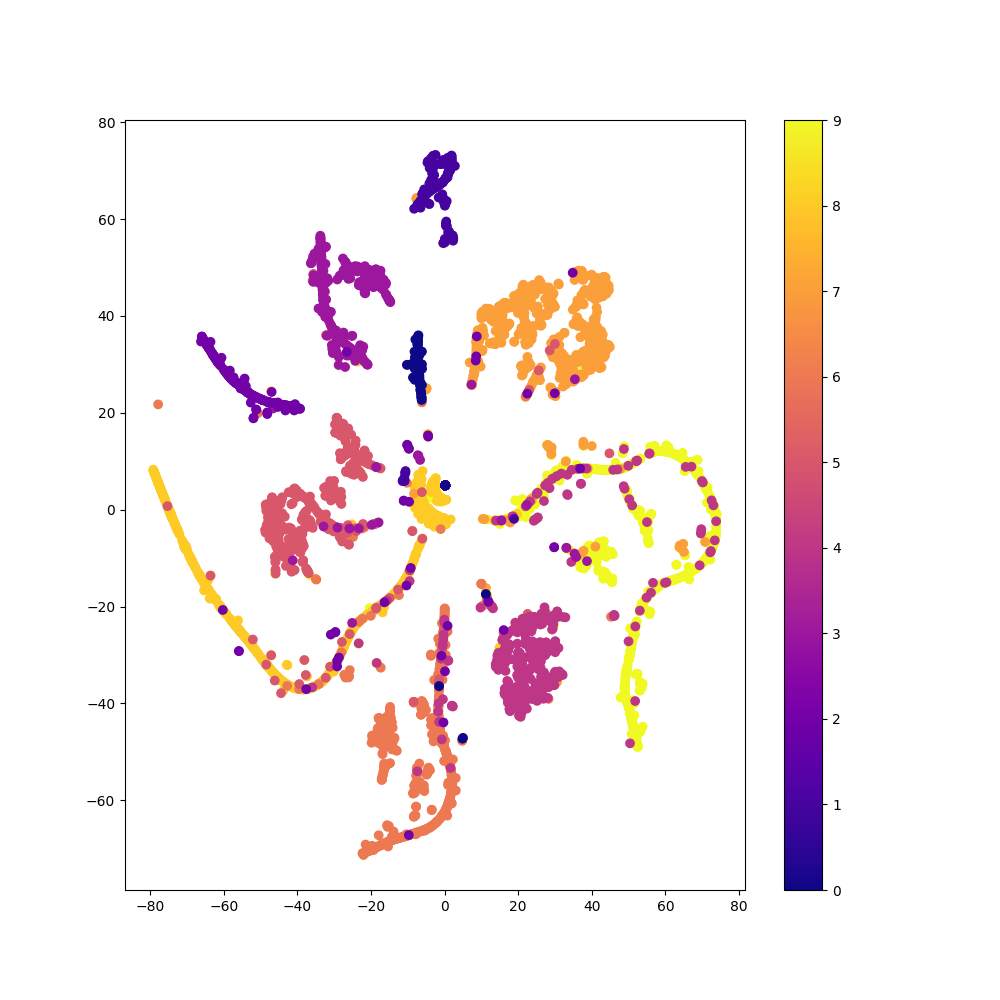
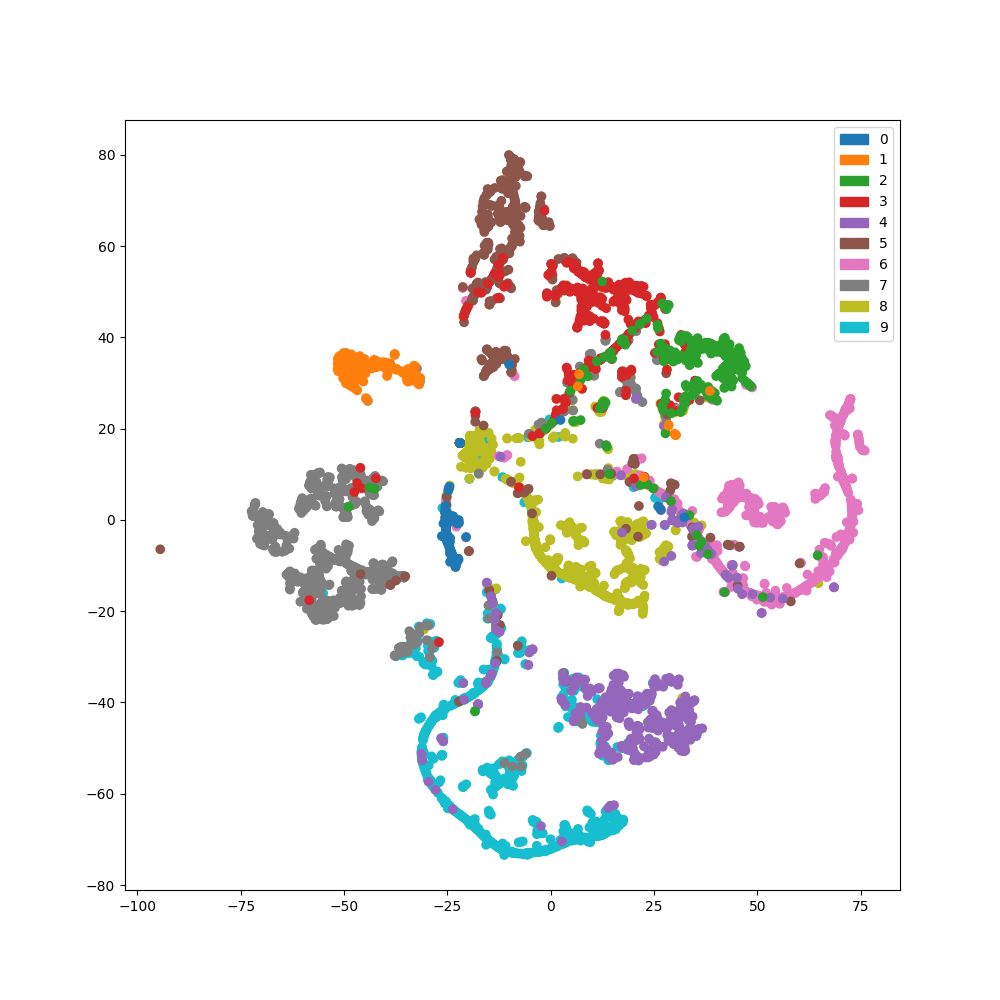
10/27/25 meeting note

diff --git a/imbal/regression/kde.py b/imbal/regression/kde.py
@@ -11,32 +11,33 @@ def fit_kde(
         average_samples_per_bin=100,
         bin_count=None,
         steps_per_bin = 10,
-        fine_search = 10,
+        fine_search = 5,
         tolerance = 1e-3,
         padding_factor=0.01
 ):
     """
-    Automatically determine a bandwidth and gaussian KDE curve best fits
-    the labels provided.
+    Determine the bandwidth which generates a KDE curve that best fits
+    the labels provided, based on some rule of thumb or heuristic.
 
     For the best results, we have implemented an iterative fit function that aims to
     minimize the KL divergence between the heights of the density-normalized histogram
-    bins of the data, and the area under the curve of the KDE at each bin. We do this
-    by assuming that the best fits the data will be between :math:`0.01` and :math:`3` times the standard
-    deviation of the data. We then perform a beam search within this data range, searching
-    :math:`k` canditates per round, searching finer and finer ranges until either the
-    KL divergence is within some tolerance of zero, or the current round fails to
-    find a bandwidth that performs better than the best candidate from the previous round.
+    bins of the data (area of all bins sums to :math:`1`), and the area under the curve
+    of the KDE at each bin. We do this by assuming that the best fits the data is
+    between :math:`0.01` and :math:`3` times the standard deviation of the data. We then
+    perform a beam search within this data range, searching :math:`k` canditates per round,
+    performing searches in finer and finer ranges until either the KL divergence is within
+    some tolerance of zero, or the candidates in the current round perform no better
+    than the best candidate from the previous round.
 
-    In the case of :code:`kl_divergence`, it is important to note that since the KL divergence
+    It is important to note that since the KL divergence
     is calculated by performing per-bin comparisons with a histogram of the data, the bandwidth
     fit found by this method is dependent on the number of bins that the data is divided into.
     In general, lower bin counts will result in a smoother KDE, and higher bin counts will
     result in a bumpy KDE. We calculate the AUC for each bin by
     performing midpoint sums within the bounds of the bin by sampling the KDE.
 
-    The :code:`scott` and :code:`silverman` bandwidth fitting methods are explicit, "rule of thumb" methods
-    for finding the bandwidth that take :math:`O(n)` time. The :code:`kl_divergence`
+    The :code:`'scott'` and :code:`'silverman'` bandwidth fitting methods are explicit, "rule of thumb" methods
+    for finding the bandwidth that take :math:`O(n)` time. The :code:`'kl_divergence'`
     method is an iterative method that takes :math:`O(rkn)` time, where :math:`k` is
     the number of searches performed per round (default :math:`10`), and :math:`r` is
     the numer of rounds it takes to reach a final value (unknown, but usually between :math:`5` and :math:`10`).
@@ -44,11 +45,11 @@ def fit_kde(
     Args:
         labels: A NumPy array of labels, arranged as a column vector
         fit_method: Optional, default :code:`'kl_divergence'`. A string indicating the method to use to
-            determine bandwidth. If set to :code:`scott` or :code:`silverman`, the
+            determine bandwidth. If set to :code:`'scott'` or :code:`'silverman'`, the
             bandwidth will be determined by using either Scott's or Silverman's
-            rule-of-thumb. If set to :code:`kl_divergence`,
+            rule-of-thumb. If set to :code:`'kl_divergence'`,
             an iterative approach will be used to determine the best bandwidth to minimize
-            the specified heuristic. If :code:`kl_divergence`, will try to minimize the KL
+            the specified heuristic. If :code:`'kl_divergence'`, will try to minimize the KL
             divergence between the KDE and the normalized histogram (area under the
             histogram is 1).
         average_samples_per_bin: Optional, default :code:`100`. Determines the
@@ -102,7 +103,6 @@ def fit_kde(
         found_bandwidth = _iterative_kde_approximation(
             labels,
             bin_count=bin_count,
-            bandwidth=fit_method,
             steps_per_bin=steps_per_bin,
             fine_search=fine_search,
             tolerance=tolerance,
@@ -227,7 +227,6 @@ def plot_kde_1d(
 def _iterative_kde_approximation(
     labels,
     bin_count=10,
-    bandwidth=None,
     steps_per_bin=10,
     fine_search = 10,
     tolerance = 1e-3,
@@ -270,7 +269,7 @@ def _iterative_kde_approximation(
 
     # Ensure at least one loop, and loop until ratio is within tolerance,
     # or search becomes too fine grain (perhaps ideal ratio is impossible)
-    while best_heuristic is None or (best_heuristic > tolerance and coarse_search / fine_search > 1e-6):
+    while best_heuristic is None or (best_heuristic > tolerance and coarse_search / fine_search > 1e-9):
         search_steps = round(fine_search)
         heuristic_contender = None
         bandwidth_contender = None

diff --git a/imbal/regression/generate_weights.py b/imbal/regression/generate_weights.py
@@ -95,7 +95,7 @@ def get_densities(
      .. code-block:: python
 
         >>> # Local Approximation Example
-        >>> labels = np.array([0, 0, 0, 0, 0, 0, 0, 0, 0, 0, 0, 0, 1, 1, 1, 1, 1, 1, 5, 5])
+        >>> labels = np.array([0, 0, 0, 0, 0, 0, 1, 1, 1, 5])
         >>> kde_bandwidth = imbal.regression.fit_kde(labels, bin_count=3)
         >>> local_approx_densities = imbal.regression.get_densities(
         >>>     labels,
@@ -103,7 +103,7 @@ def get_densities(
         >>>     atol=1e-3
         >>> )
 
-        >>> # For this example dataset, there are no errors, even for higher tolerance values
+        >>> # For this example dataset, small errors are found in some densities
         >>> print(local_approx_densities)
         [[1.0930705], [1.0930705], [1.0930705], [1.0930705], [1.0930705],
          [1.0930705], [0.5465353], [0.5465353], [0.5465353], [0.1821784]]
@@ -111,7 +111,7 @@ def get_densities(
      .. code-block:: python
 
         >>> # Linear Interpolation Example
-        >>> labels = np.array([0, 0, 0, 0, 0, 0, 0, 0, 0, 0, 0, 0, 1, 1, 1, 1, 1, 1, 2, 2])
+        >>> labels = np.array([0, 0, 0, 0, 0, 0, 1, 1, 1, 5])
         >>> kde_bandwidth = imbal.regression.fit_kde(labels, bin_count=3)
         >>> linear_interpolation_densities = imbal.regression.get_densities(
         >>>     labels,
@@ -120,6 +120,7 @@ def get_densities(
         >>>     interpolation_samples=5
         >>> )
 
+        >>> # For this example dataset, small errors are found in all densities
         >>> print(linear_interpolation_densities)
         [[1.0392918], [1.0392918], [1.0392918], [1.0392918], [1.0392918],
          [1.0392918], [0.5255651], [0.5255651], [0.5255651], [0.1687906]]

diff --git a/10-2025/10-24-25/bandwidth_method_comparison.py b/10-2025/10-24-25/bandwidth_method_comparison.py
@@ -15,7 +15,7 @@ def read_csv_to_list_of_lists(filepath):
             data.append(row)
     return data
 
-PATH_START = '/mnt/c/Users/tommy/PycharmProjects/DrChanWorkPlayground'
+PATH_START = '/mnt/c/Users/tommy/Desktop/Repos/dr-chan-work-demo'
 print(os.getcwd())
 
 # data = np.array(read_csv_to_list_of_lists(f'{PATH_START}/CISIR-data/SARCOS/sarcos_inv_training.csv'))

diff --git a/10-2025/10-24-25/tsne.py b/10-2025/10-24-25/tsne.py
@@ -3,8 +3,8 @@ import keras
 from keras import layers
 import numpy as np
 
-MODE = 'regression'
-IMBALANCED = False
+MODE = 'classification'
+IMBALANCED = True
 SAVE_FIG_NAME = f'test-tsne-imbalanced-{MODE}-imbalanced-{IMBALANCED}.png'
 
 (x_train, y_train), (x_test, y_test) = mnist.load_data()

diff --git a/imbal/util/visualization/__init__.py b/imbal/util/visualization/__init__.py
@@ -1,5 +1,3 @@
-import os
-
 import matplotlib.pyplot as plt
 import matplotlib.patches as patches
 from sklearn.manifold import TSNE

diff --git a/Dr. Chan Research Work Notes/Notes - 10-25.md b/Dr. Chan Research Work Notes/Notes - 10-25.md
@@ -312,7 +312,7 @@ Errors
 
 # 10/27/25
 
-## Tasks:
+## Prep:
 - For documentation of `get_densities`, "approximation", not "estimation" $\checkmark$
 - Change examples for `get_densities` so that errors are visible for all approximations $\checkmark$
 	- Reduce size of all figures $\checkmark$
@@ -323,8 +323,8 @@ Errors
 - `fit_kde` - `fit_method` default not in code font $\checkmark$
 - `kl_divergence` requires more description of algorithm $\checkmark$
 	- 'beam search'... coarse grain to fine grain $\checkmark$
-		- say "k candidates" instead of searches $\checkmark$
-	- provide explanation via examples of "k candidates", "iterations", "coarse to fine grain" $\checkmark$
+		- say "$k$ candidates" instead of searches $\checkmark$
+	- provide explanation via examples of "$k$ candidates", "iterations", "coarse to fine grain" $\checkmark$
 	- split $k$ into $r$ rounds and $k$ candidates $\checkmark$
 		- mention default $k$, and $r$ is arbitrary $\checkmark$
 	- mention and explain stopping criteria $\checkmark$
@@ -341,3 +341,34 @@ Errors
 		- Shapes instead of color? $\checkmark$
 			- **Doesn't seem as feasible as colors**
 			- Is there a way to pass this as parameter?
+
+## Tasks:
+- For `fit_kde`
+	- Introduce term "stopping criteria"
+	- When describing $r$ in time complexity, refer back to "stopping criteria", then say rough expected value
+	- Describe stopping criteria scenarios
+		- `tolerance` example, explained an potentially in code
+		- tolerance should default to $0$, not specified means use only "no improvement" stopping criteria
+- For `get_densities`
+	- Introduce/define/describe delta
+		- Not "some delta ... such that", rather "\[define delta\] ... which we call delta."
+		- Mention inverse gaussian for calculation of delta
+			- Range is +/- delta
+			- All values beyond delta have a density value below `atol/n`
+		- Mention motivation - further away points contribute very little to density
+			- some min distance, which we call delta
+- Binary classification example to highlight rarer classes being plotted "on top"
+	- Mention in documentation example (begin documentation)
+	- Examples:
+		- Rare plotted last
+		- Models can perform worse when data is imbalanced, which can be shown visually with TSNE
+- For `tsne`
+	- don't specify colors, instead make multiple scatter plots and make `matplotlib` handle it
+		- But still allow for user colors, shapes, size
+			- 3 lists, not list of tuples
+		- Provide documentation example
+		- Replace descending/ascending with binning, pass bins by descending frequency
+	- Example ordering:
+		- Rare plotted first
+		- shape/size/color
+		- Imbalance can be a problem, shown visually
